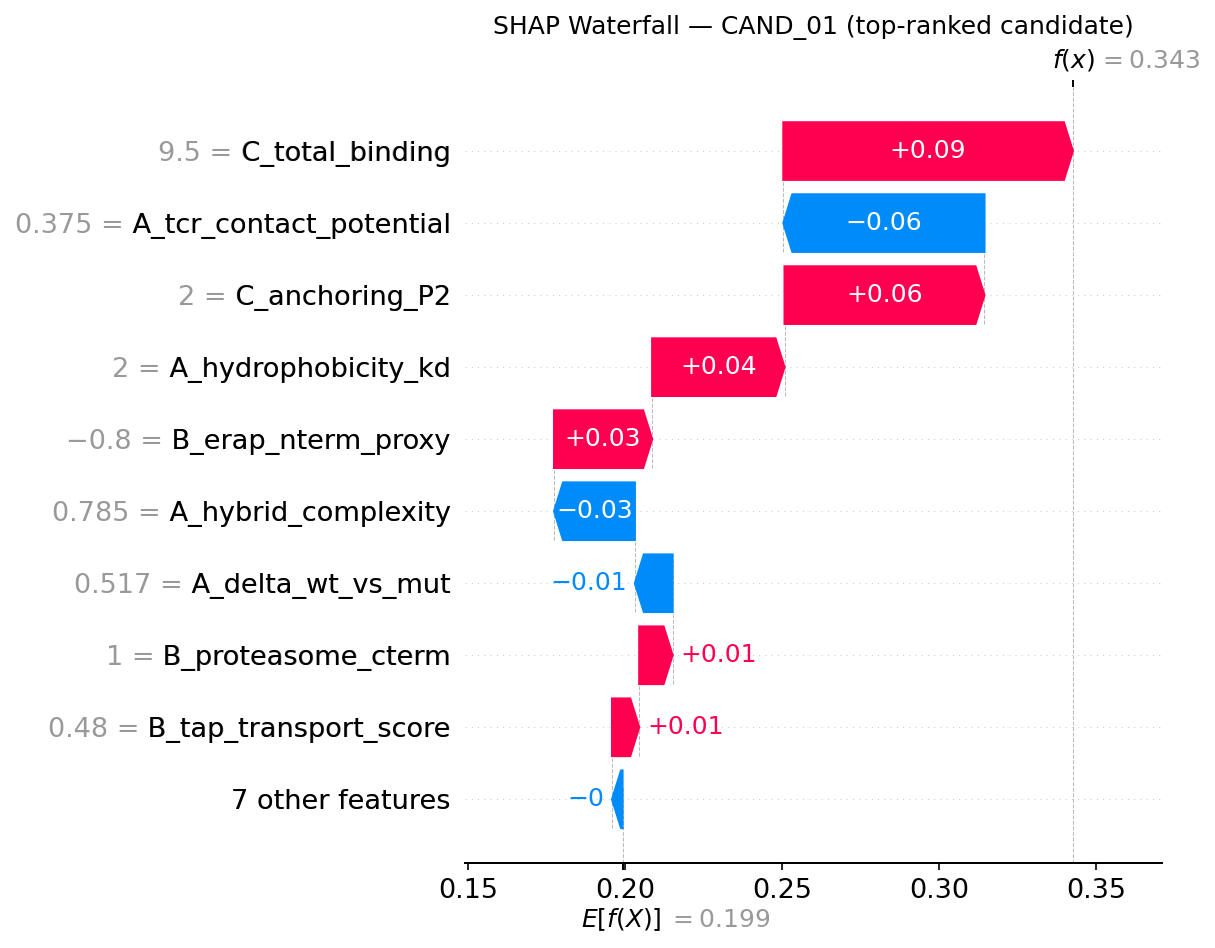
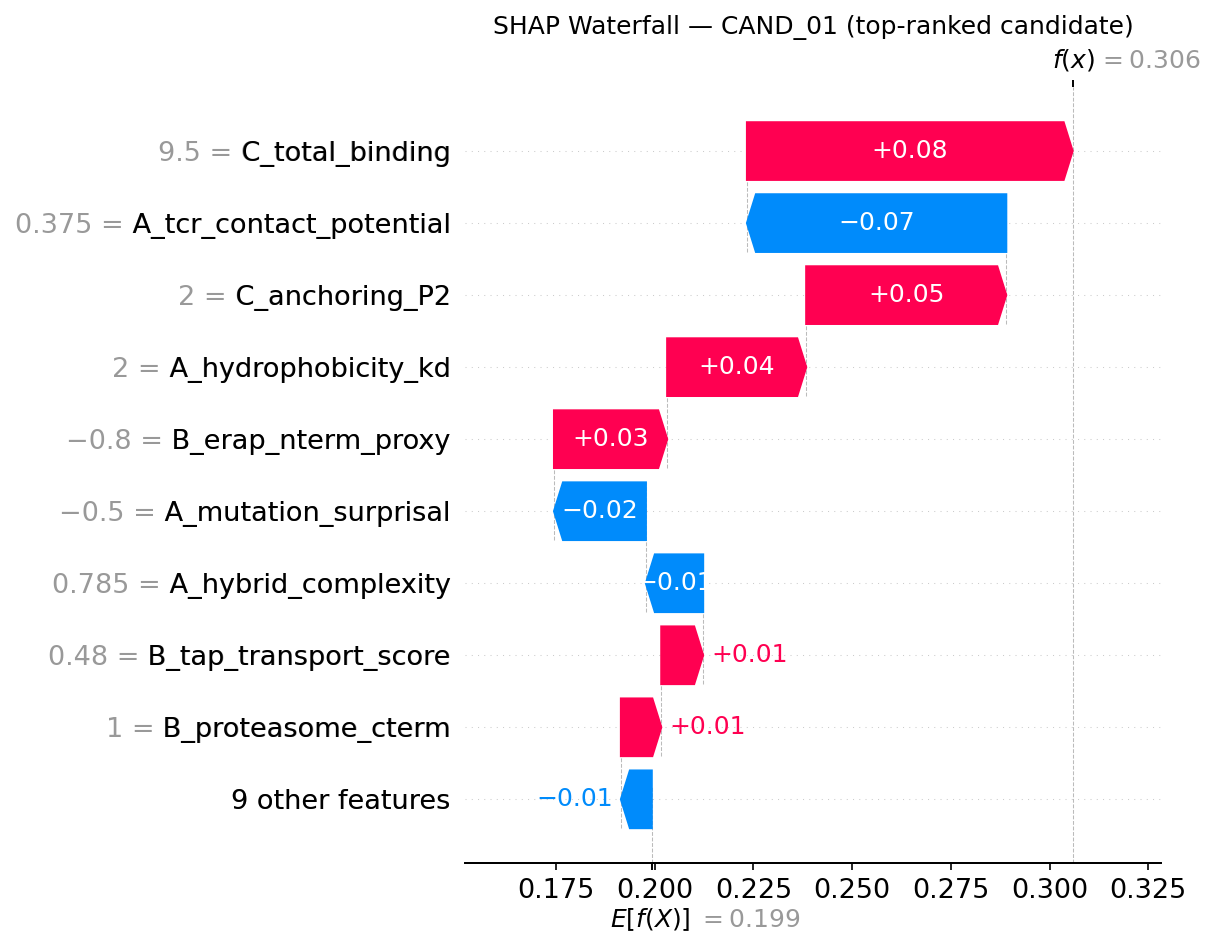
fix: add docstrings, edge case handling and stronger penalties to B3/B4

diff --git a/modules/groupe_10.py b/modules/groupe_10.py
@@ -1,8 +1,29 @@
 """
 Module B3 — ERAP trimming (N-terminal proxy).
+
+Hypothesis: ERAP enzymes trim the N-terminal of peptides before HLA
+loading. Some N-terminal amino acids are trimmed efficiently, others
+block the process. A disfavored N-terminal means less likely presented.
+
+Computation: look up the first amino acid in a preference table based
+on ERAP1 trimming biases (Saveanu et al., 2005).
+
+Limitations: only the first amino acid is used, ERAP1 vs ERAP2 not
+distinguished, values are a simplified heuristic.
 """
 
+from __future__ import annotations
+
+from typing import TYPE_CHECKING
+
+if TYPE_CHECKING:
+    from logic.types import Candidate
+
 SCORE_NAME = "B_erap_nterm_proxy"
+VALID_AA = set("ACDEFGHIKLMNPQRSTVWY")
+MIN_LENGTH = 8
+MAX_LENGTH = 11
+PENALTY = -1.0
 
 ERAP_TRIMMING = {
     "P": 1.0,
@@ -28,16 +49,29 @@ ERAP_TRIMMING = {
 }
 
 
-def get_score(candidate):
+def get_score(candidate: "Candidate") -> tuple[str, float]:
+    """Return the ERAP N-terminal trimming score for a candidate."""
     try:
         peptide = candidate.peptide_mut
 
-        if not peptide:
-            return (SCORE_NAME, -1.0)
+        if not peptide or not isinstance(peptide, str):
+            return (SCORE_NAME, PENALTY)
 
-        first_aa = peptide[0].upper()
+        peptide = peptide.strip().upper()
+
+        if not peptide:
+            return (SCORE_NAME, PENALTY)
+
+        if not (MIN_LENGTH <= len(peptide) <= MAX_LENGTH):
+            return (SCORE_NAME, PENALTY)
+
+        first_aa = peptide[0]
+
+        if first_aa not in VALID_AA:
+            return (SCORE_NAME, PENALTY)
+
         score = ERAP_TRIMMING.get(first_aa, 0.0)
         return (SCORE_NAME, score)
 
     except Exception:
-        return (SCORE_NAME, -1.0)
+        return (SCORE_NAME, PENALTY)

diff --git a/modules/groupe_10_b4.py b/modules/groupe_10_b4.py
@@ -1,20 +1,44 @@
+"""
+Module B4 — Sanity checks (minimal biological validity).
+
+Hypothesis: a peptide that violates basic biological constraints cannot
+be a valid HLA-I ligand and must be heavily penalized regardless of
+other scores.
+
+Computation: check four conditions — length 8-11, valid amino acids,
+WT != MUT, and mutation position within the peptide. Each failure
+gives -10. All pass = 1.0.
+
+Limitations: does not distinguish types of invalidity, does not verify
+whether the mutation is biologically real, does not rank valid peptides.
+"""
+
+from __future__ import annotations
+
+from typing import TYPE_CHECKING
+
+if TYPE_CHECKING:
+    from logic.types import Candidate
+
 SCORE_NAME = "B_sanity_check"
 VALID_AA = set("ACDEFGHIKLMNPQRSTVWY")
+PENALTY_PER_FAILURE = -10.0
 
 
-def get_score(candidate):
+def get_score(candidate: "Candidate") -> tuple[str, float]:
+    """Return a sanity check score for a candidate."""
     try:
         mut = candidate.peptide_mut
         wt = candidate.peptide_wt
 
         if not mut or not wt:
-            return (SCORE_NAME, -10.0)
+            return (SCORE_NAME, PENALTY_PER_FAILURE)
 
         mut = mut.strip().upper()
         wt = wt.strip().upper()
 
         if not mut or not wt:
-            return (SCORE_NAME, -10.0)
+            return (SCORE_NAME, PENALTY_PER_FAILURE)
 
         penalties = 0
 
@@ -27,10 +51,14 @@ def get_score(candidate):
         if wt == mut:
             penalties += 1
 
+        mut_pos = candidate.mut_pos_1based
+        if not isinstance(mut_pos, int) or mut_pos < 1 or mut_pos > len(mut):
+            penalties += 1
+
         if penalties == 0:
             return (SCORE_NAME, 1.0)
 
-        return (SCORE_NAME, -float(penalties))
+        return (SCORE_NAME, penalties * PENALTY_PER_FAILURE)
 
     except Exception:
-        return (SCORE_NAME, -10.0)
+        return (SCORE_NAME, PENALTY_PER_FAILURE)

diff --git a/tests/test_groupe_10_b4.py b/tests/test_groupe_10_b4.py
@@ -38,4 +38,22 @@ def test_empty_input_gets_strong_penalty():
 def test_multiple_failures_stack_penalty():
     name, value = get_score(make_candidate("XXXX", "XXXX"))
     assert name == "B_sanity_check"
-    assert value <= -2.0
+    assert value <= -20.0
+
+
+def test_mut_pos_outside_window():
+    c = Candidate(
+        candidate_id="TEST",
+        peptide_wt="GLWDPFNAV",
+        peptide_mut="GLWDPFNAV",
+        mut_pos_1based=12,
+    )
+    name, value = get_score(c)
+    assert name == "B_sanity_check"
+    assert value < 0.0
+
+
+def test_strong_penalty_for_invalid_chars():
+    name, value = get_score(make_candidate("ALXDF*NQV", "ALDDFANQV"))
+    assert name == "B_sanity_check"
+    assert value <= -10.0

diff --git a/tests/test_groupe_10.py b/tests/test_groupe_10.py
@@ -58,3 +58,21 @@ def test_multiple_distinct_scores_exist():
         get_score(make_candidate("GLMAFTIAV"))[1],
     }
     assert len(scores) >= 5
+
+
+def test_non_standard_first_aa():
+    name, value = get_score(make_candidate("XLMAFTIAV"))
+    assert name == "B_erap_nterm_proxy"
+    assert value == -1.0
+
+
+def test_too_short_peptide():
+    name, value = get_score(make_candidate("PLM"))
+    assert name == "B_erap_nterm_proxy"
+    assert value == -1.0
+
+
+def test_too_long_peptide():
+    name, value = get_score(make_candidate("PLMAFTIAVAAAA"))
+    assert name == "B_erap_nterm_proxy"
+    assert value == -1.0